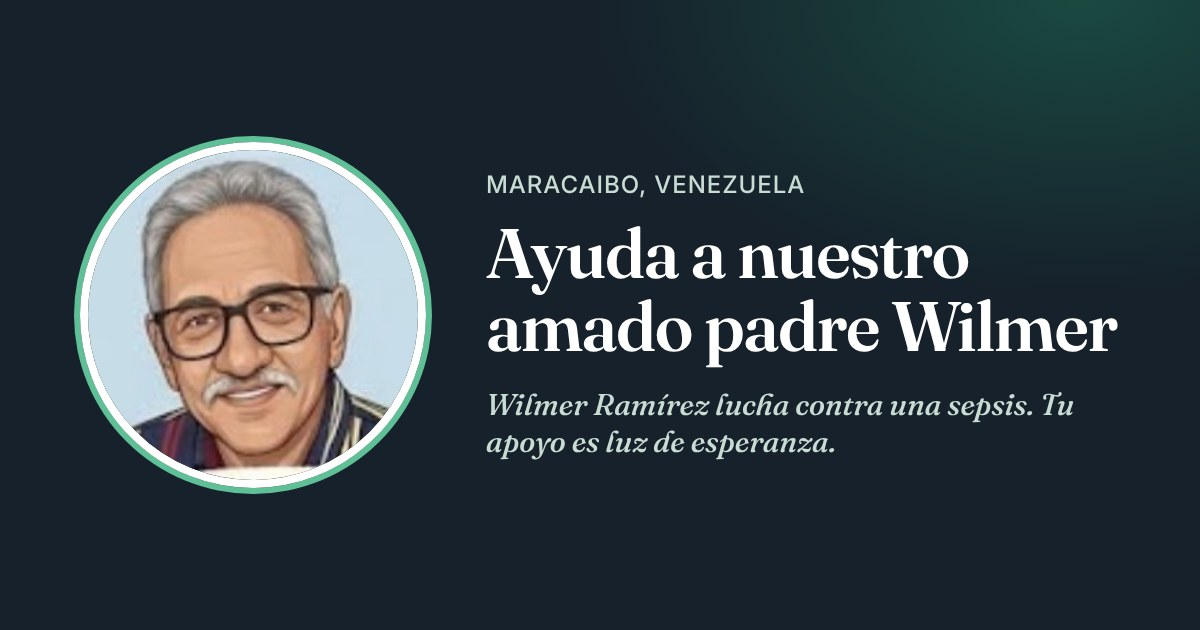
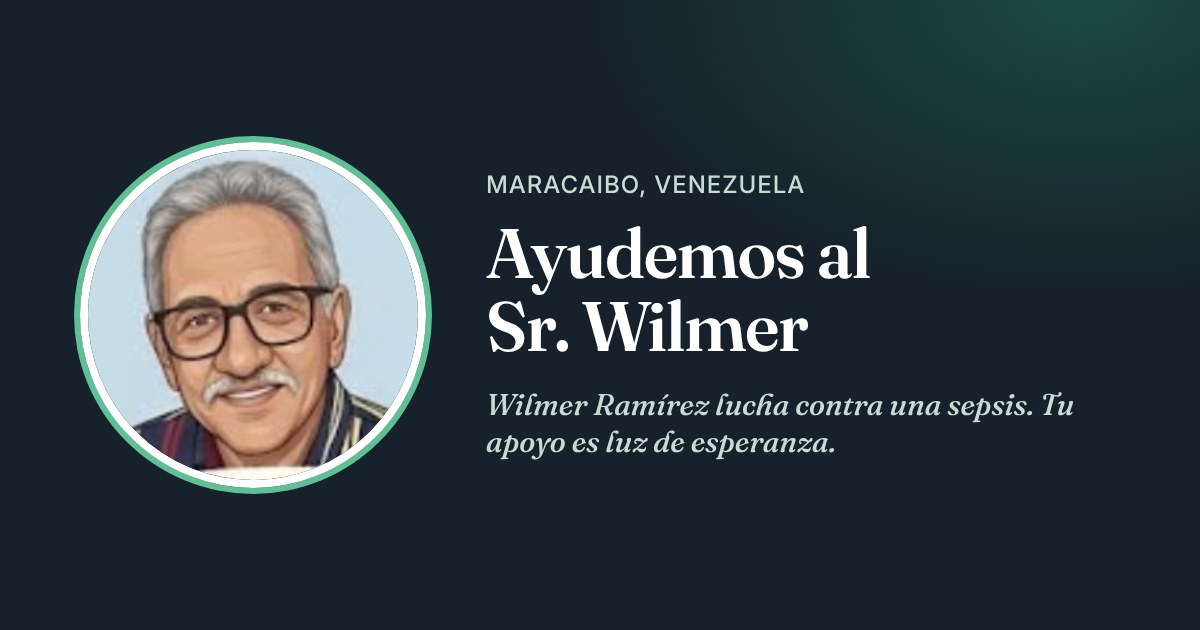
Campaña Wilmer: enlace y vista previa «Ayudemos al Sr. Wilmer»
Claude-Session: https://claude.ai/code/session_01EJB8HmAiv8gsMqL4w5jTpA

Changed region(s): [[0.4008, 0.4825, 0.925, 0.6032], [0.5242, 0.3619, 0.8325, 0.4524]]

diff --git a/prototipos/campana-wilmer.html b/prototipos/campana-wilmer.html
@@ -4,13 +4,13 @@
 <meta charset="utf-8">
 <meta name="viewport" content="width=device-width, initial-scale=1, viewport-fit=cover">
 <meta name="robots" content="noindex, nofollow">
-<title>Ayuda a nuestro amado padre Wilmer</title>
+<title>Ayudemos al Sr. Wilmer</title>
 <meta name="description" content="Wilmer Ramírez está hospitalizado en Maracaibo luchando contra una sepsis. Tu donación, oración y apoyo son luz de esperanza.">
 <meta property="og:type" content="website">
-<meta property="og:url" content="https://ayudemos-a-wilmer.netlify.app/">
-<meta property="og:title" content="Ayuda a nuestro amado padre Wilmer 🙏">
+<meta property="og:url" content="https://ayudemos-al-sr-wilmer.netlify.app/">
+<meta property="og:title" content="Ayudemos al Sr. Wilmer 🙏">
 <meta property="og:description" content="Wilmer Ramírez está hospitalizado en Maracaibo luchando contra una sepsis. Tu donación, oración y apoyo son luz de esperanza.">
-<meta property="og:image" content="https://ayudemos-a-wilmer.netlify.app/compartir.jpg">
+<meta property="og:image" content="https://ayudemos-al-sr-wilmer.netlify.app/compartir.jpg">
 <meta property="og:image:width" content="1200">
 <meta property="og:image:height" content="630">
 <meta name="twitter:card" content="summary_large_image">
@@ -379,13 +379,13 @@ footer{border-top:1px solid var(--linea);padding:34px 0 90px;font-size:13.5px;co
             <svg width="20" height="20" viewBox="0 0 24 24" aria-hidden="true"><circle cx="12" cy="12" r="11" fill="#1877F2"/><path fill="#fff" d="M15.1 12.6l.4-2.6H13V8.3c0-.7.4-1.4 1.5-1.4h1.1V4.7s-1-.2-2-.2c-2.1 0-3.4 1.3-3.4 3.5V10H8v2.6h2.2V19h2.8v-6.4z"/></svg>
             Facebook
           </button>
-          <button class="red transp" data-copiar="https://ayudemos-a-wilmer.netlify.app/">
+          <button class="red transp" data-copiar="https://ayudemos-al-sr-wilmer.netlify.app/">
             <svg width="20" height="20" viewBox="0 0 24 24" fill="none" stroke="currentColor" stroke-width="2" stroke-linecap="round" stroke-linejoin="round" aria-hidden="true"><path d="M10 13a5 5 0 0 0 7.5.5l3-3a5 5 0 0 0-7-7l-1.7 1.7"/><path d="M14 11a5 5 0 0 0-7.5-.5l-3 3a5 5 0 0 0 7 7l1.7-1.7"/></svg>
             Copiar enlace
           </button>
         </div>
         <div class="enlace-demo">
-          <span>Enlace de la campaña:</span><code>ayudemos-a-wilmer.netlify.app</code>
+          <span>Enlace de la campaña:</span><code>ayudemos-al-sr-wilmer.netlify.app</code>
         </div>
       </section>
 
@@ -483,7 +483,7 @@ footer{border-top:1px solid var(--linea);padding:34px 0 90px;font-size:13.5px;co
     if (ultimoFoco) ultimoFoco.focus();
   }
 
-  var URL_CAMPANA = 'https://ayudemos-a-wilmer.netlify.app/';
+  var URL_CAMPANA = 'https://ayudemos-al-sr-wilmer.netlify.app/';
   var TEXTO = 'Ayudemos al Sr. Wilmer Ramírez. Está hospitalizado en Maracaibo y su familia necesita nuestro apoyo: ';
   document.addEventListener('click', function (e) {
     var r = e.target.closest('[data-red]'); if (!r) return;
